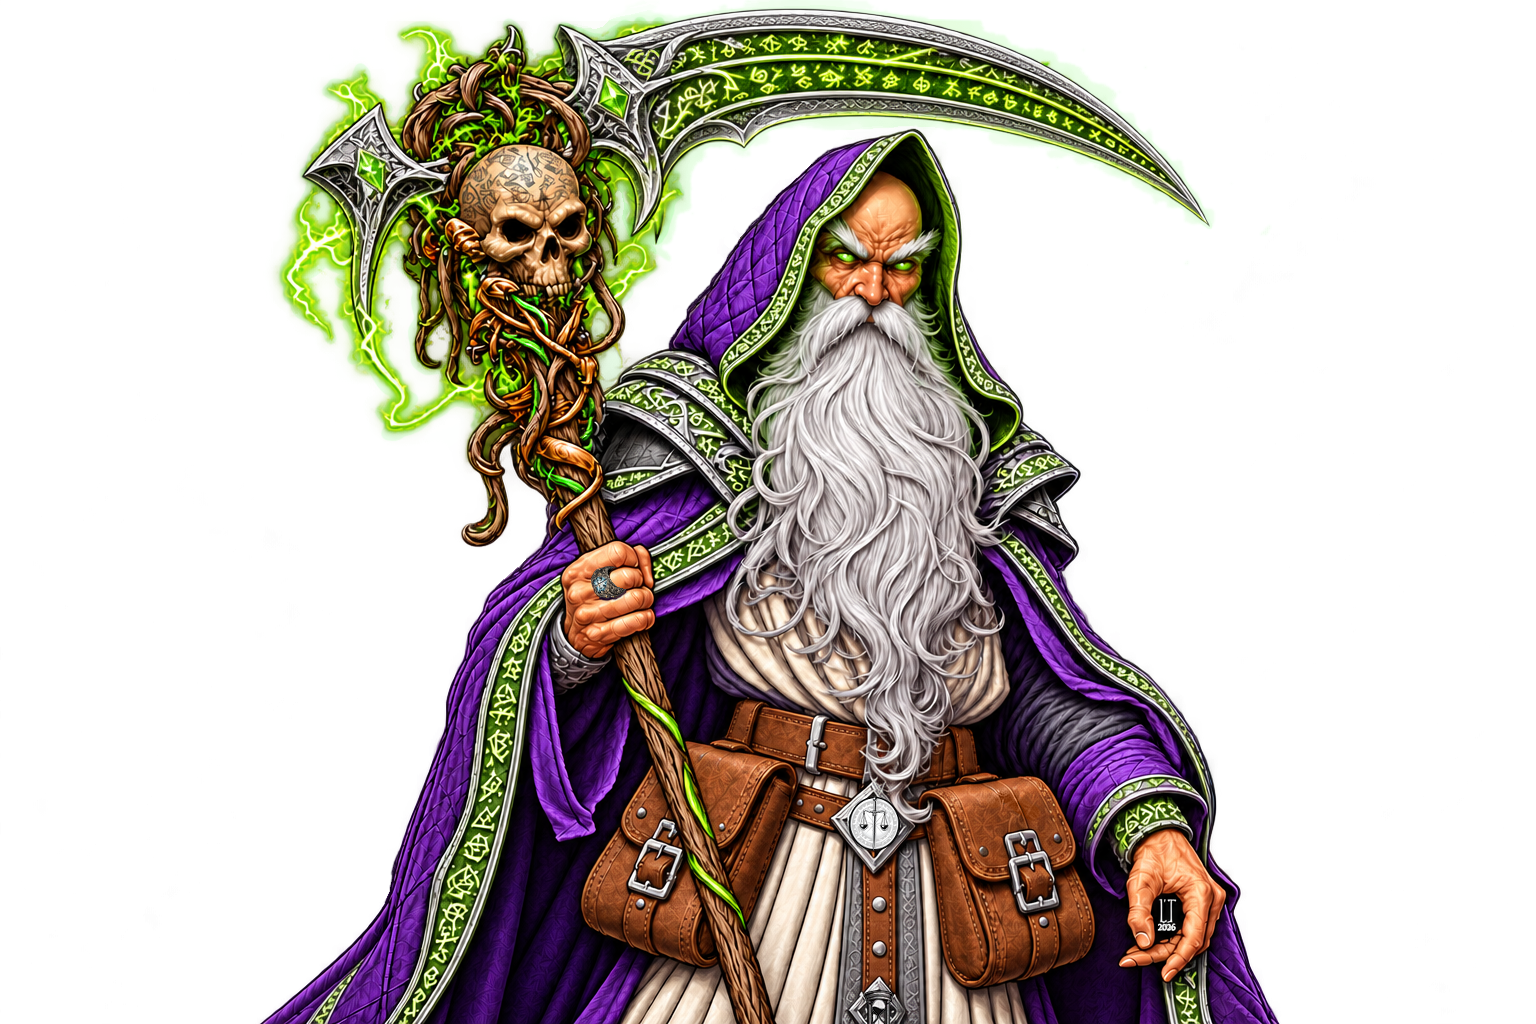
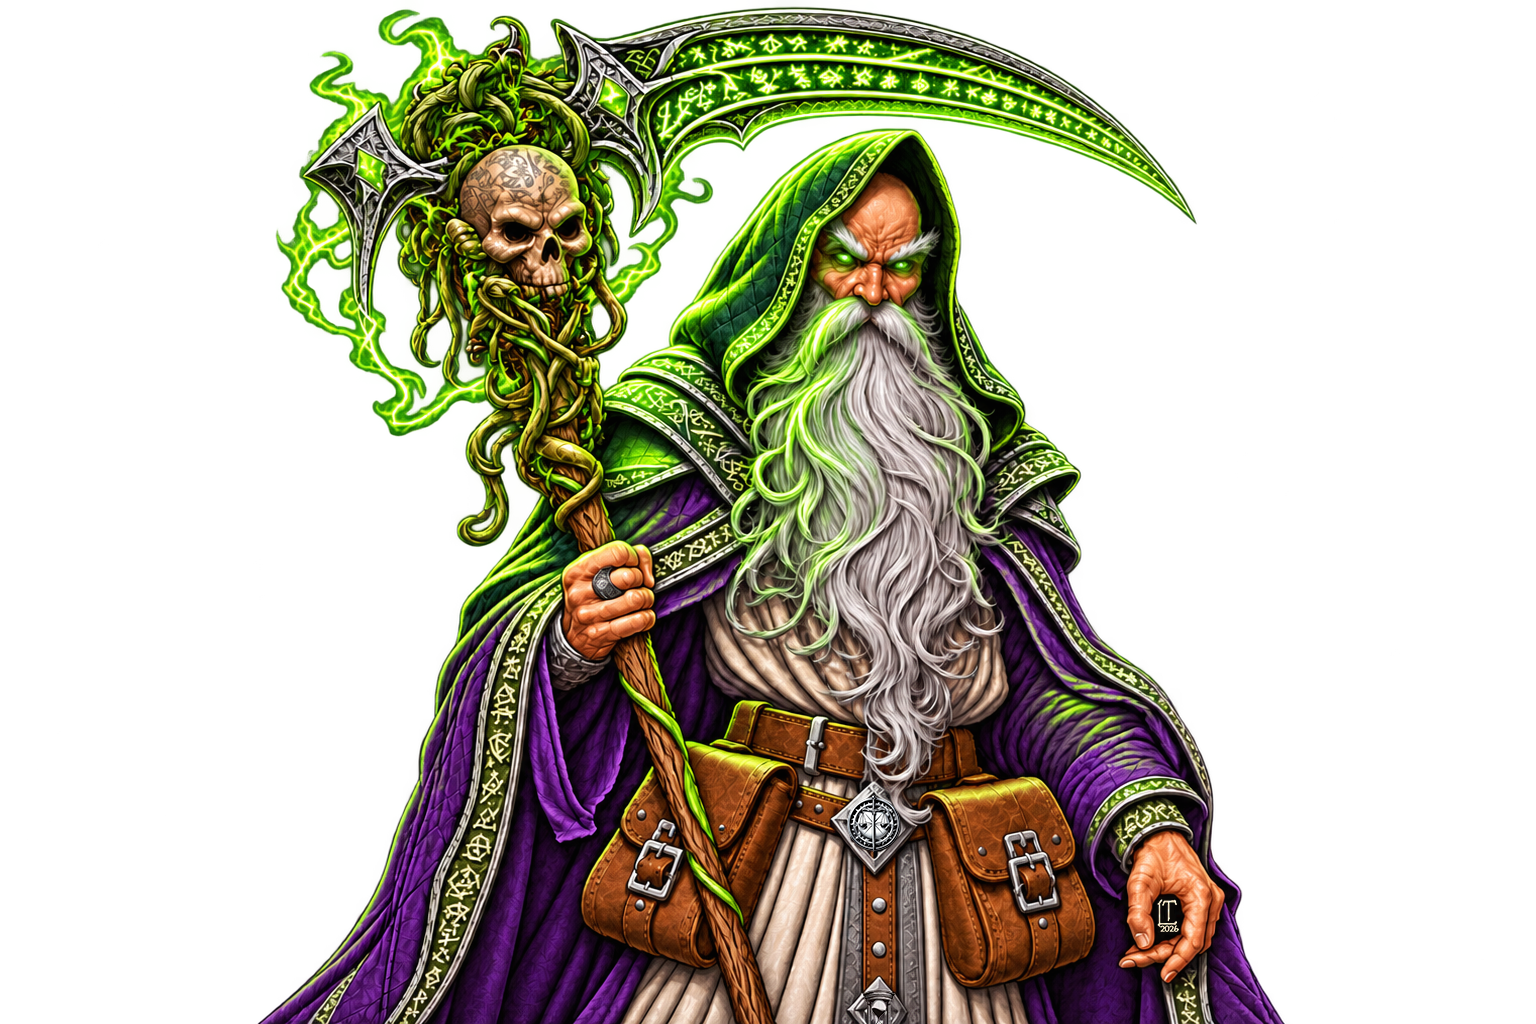
Update welcome messages, dashboard artwork, and adventure log cards

Changed region(s): [[0.1562, 0.0, 0.8438, 1.0]]

diff --git a/app/page.tsx b/app/page.tsx
@@ -123,9 +123,8 @@ export default async function HomePage({ searchParams }: {
 
       <div className="homepage-character-intro">
         <HomepageSpeechBubble>
-          Adventure from the comfort of your own home with a welcoming online community
-          and top-tier Dungeon Masters running{" "}
-          <strong><RainbowSpellbook /></strong> QUESTS.
+          Play in <strong><RainbowSpellbook /></strong> QUESTS from the comfort of home,
+          join a welcoming Discord community, and adventure with top-tier Dungeon Masters.
         </HomepageSpeechBubble>
         <img
           alt=""
@@ -198,7 +197,8 @@ export default async function HomePage({ searchParams }: {
           width="1198"
         />
         <HomepageSpeechBubble>
-          easy to use guides to turn any table into a <RainbowSpellbook /> QUESTS table.
+          Any D&amp;D game can become a <RainbowSpellbook /> QUESTS game with these{" "}
+          <strong>easy-to-use guides for turning any table into a <RainbowSpellbook /> QUESTS table.</strong>
         </HomepageSpeechBubble>
       </div>
 
@@ -206,9 +206,10 @@ export default async function HomePage({ searchParams }: {
 
       <div className="homepage-character-intro">
         <HomepageSpeechBubble>
-          Explore the lore of the <strong>ORDO</strong>, discover{" "}
-          <strong>Sigil, the City of Doors</strong>, and learn how to adapt both to any
-          campaign setting in the multiverse.
+          Explore the lore of the <strong>ORDO</strong>, a guild dedicated to preserving
+          balance across the multiverse. Discover <strong>Sigil, the City of Doors</strong>,
+          where portals open to worlds across the planes. Learn how to bring the ORDO
+          and Sigil into any campaign setting.
         </HomepageSpeechBubble>
         <img
           alt="Arcanaloth"
@@ -234,7 +235,9 @@ export default async function HomePage({ searchParams }: {
           width="1198"
         />
         <HomepageSpeechBubble>
-          Create your Agent of the ORDO; the multiversal guild that protects the balance in all its forms.
+          Create your character and become an Agent of the ORDO, a guild sworn to protect
+          the balance in all its forms. Join the player roster, find a party, and take on{" "}
+          <RainbowSpellbook /> QUESTS across the multiverse.
         </HomepageSpeechBubble>
       </div>
 

diff --git a/app/hire-a-dm/[id]/page.tsx b/app/hire-a-dm/[id]/page.tsx
@@ -213,40 +213,24 @@ export default async function HireADmProfilePage({ params }: PageProps) {
             <h2 style={{ margin: 0 }}>Recent adventure log</h2>
           </div>
 
-          <div className="table-wrap">
-            <table className="ledger-table">
-              <thead>
-                <tr>
-                  <th>Date</th>
-                  <th>Code</th>
-                  <th>Title</th>
-                  <th>Tier</th>
-                  <th>Status</th>
-                  <th>Players</th>
-                </tr>
-              </thead>
-              <tbody>
-                {games.length ? (
-                  games.map((game) => (
-                    <tr key={game.id}>
-                      <td>{formatDate(game.datePlayed)}</td>
-                      <td>{game.adventureCode}</td>
-                      <td>{game.title}</td>
-                      <td>{formatTier(game.tier)}</td>
-                      <td>{formatStatus(game.status)}</td>
-                      <td>{game._count.participants}</td>
-                    </tr>
-                  ))
-                ) : (
-                  <tr>
-                    <td className="muted" colSpan={6}>
-                      No games logged yet.
-                    </td>
-                  </tr>
-                )}
-              </tbody>
-            </table>
-          </div>
+          {games.length ? (
+            <div className="hire-dm-adventure-grid">
+              {games.map((game) => (
+                <article className="list-card" key={game.id} aria-label={game.title}>
+                  <dl className="dashboard-account-info">
+                    <div><dt>Date:</dt><dd>{formatDate(game.datePlayed)}</dd></div>
+                    <div><dt>Code:</dt><dd>{game.adventureCode}</dd></div>
+                    <div><dt>Title:</dt><dd>{game.title}</dd></div>
+                    <div><dt>Tier:</dt><dd>{formatTier(game.tier)}</dd></div>
+                    <div><dt>Status:</dt><dd>{formatStatus(game.status)}</dd></div>
+                    <div><dt>Players:</dt><dd>{game._count.participants}</dd></div>
+                  </dl>
+                </article>
+              ))}
+            </div>
+          ) : (
+            <p className="muted" style={{ margin: 0 }}>No games logged yet.</p>
+          )}
         </div>
       </section>
     </main>

diff --git a/app/dm/page.tsx b/app/dm/page.tsx
@@ -101,11 +101,11 @@ export default async function DmDashboardPage({ searchParams }: PageProps) {
             </dl>
           </div>
           <div className="dashboard-account-character">
-            <HomepageSpeechBubble>Welcome Weaver!</HomepageSpeechBubble>
+            <HomepageSpeechBubble>Welcome to the Weaver&apos;s Guild. From here you can create Quests, assign seats at your table, award gameplay achievements, track service hours and manage your SPELLBOOK games.</HomepageSpeechBubble>
             <img
               alt=""
               className="dashboard-account-wizard"
-              src="/wizard_medium.png"
+              src="/weaver%20wizard.png"
             />
           </div>
         </div>

diff --git a/app/player/page.tsx b/app/player/page.tsx
@@ -162,11 +162,11 @@ export default async function PlayerDashboardPage({
             </dl>
           </div>
           <div className="dashboard-account-character">
-            <HomepageSpeechBubble>Welcome Agent!</HomepageSpeechBubble>
+            <HomepageSpeechBubble>Welcome Agent! Add your characters to the roster to track gameplay progress, trade at the marketplace, perform downtime activities, open loot chests and facilitate joining SPELLBOOK QUESTS.</HomepageSpeechBubble>
             <img
               alt=""
               className="dashboard-account-wizard"
-              src="/wizard_medium.png"
+              src="/agent%20party.png"
             />
           </div>
         </div>

diff --git a/app/globals.css b/app/globals.css
@@ -6747,3 +6747,19 @@ body .player-dashboard-roster-section,
 body .player-dashboard-quests-section {
   border: 5px solid var(--comic-ink) !important;
 }
+
+.hire-dm-adventure-grid {
+  display: grid;
+  grid-template-columns: repeat(3, minmax(0, 1fr));
+  gap: 1.25rem;
+}
+.hire-dm-adventure-grid > article {
+  min-width: 0;
+  overflow-wrap: anywhere;
+}
+@media (max-width: 1000px) {
+  .hire-dm-adventure-grid { grid-template-columns: repeat(2, minmax(0, 1fr)); }
+}
+@media (max-width: 600px) {
+  .hire-dm-adventure-grid { grid-template-columns: minmax(0, 1fr); }
+}
